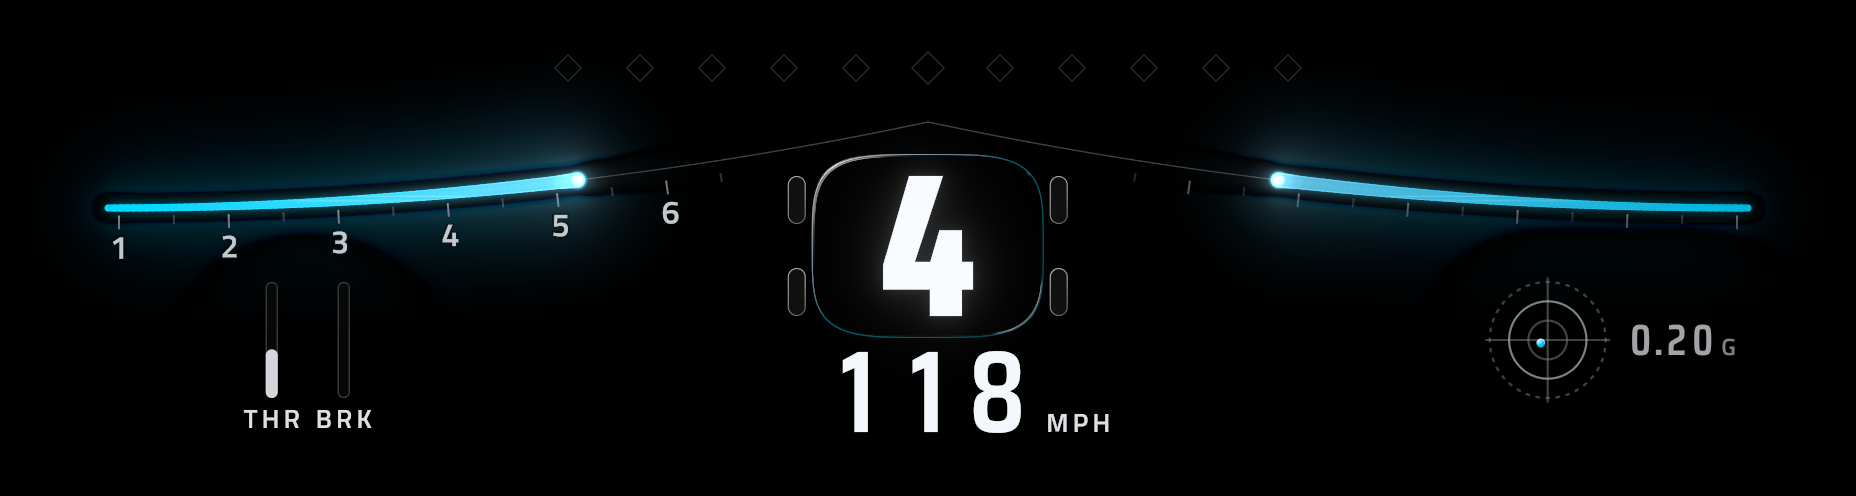
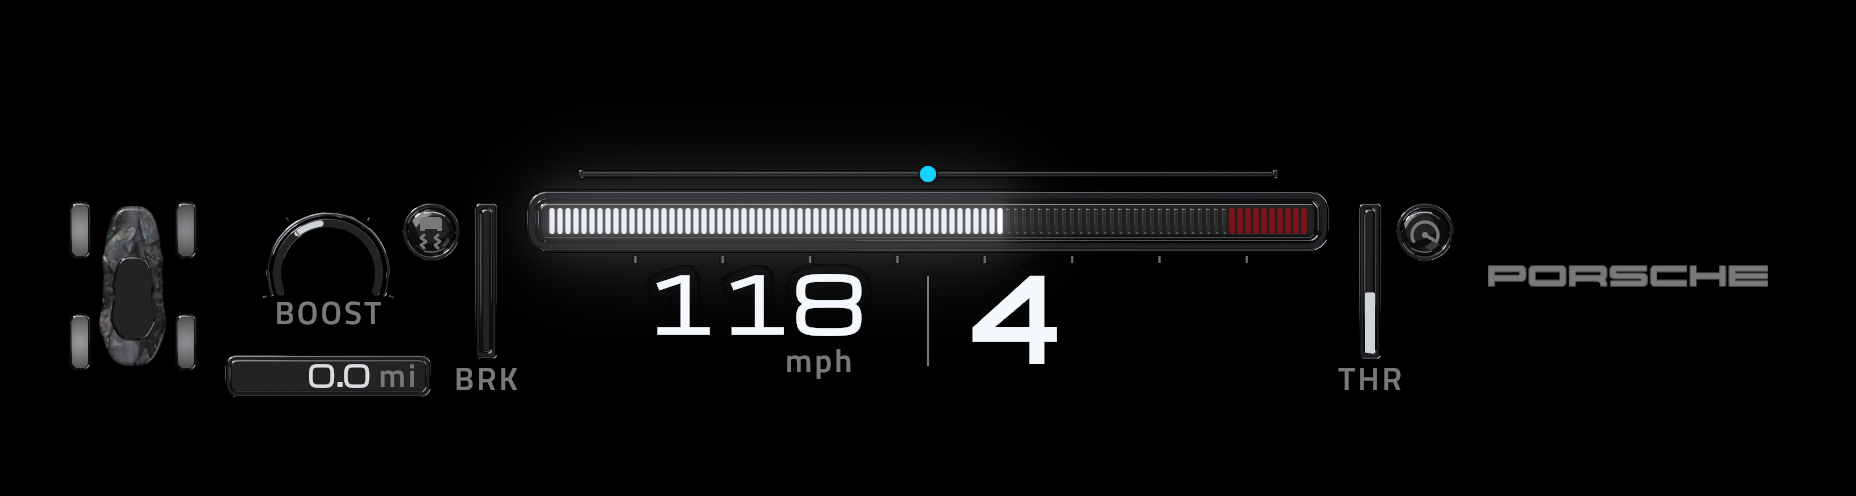
Gt7HoodPro handover: the closing spacing, V1 to V26, the closing review and the new shots

Changed region(s): [[0.0312, 0.2419, 0.9688, 0.877], [0.4688, 0.2419, 0.5312, 0.2722]]

diff --git a/crates/fh6-clusters/src/clusters/gt7_hood_pro/HANDOVER.md b/crates/fh6-clusters/src/clusters/gt7_hood_pro/HANDOVER.md
@@ -162,7 +162,7 @@ V13 stays no for this review point: GT7's bonnet band has few cues of its own, a
 
 TJX answered in the thread, on `dc_board_before_after.png`: "i like what you made". Pinned on the old gull-wing render (the before row's gear pod): "shit". Pinned on the new rev bar (the lit LED run in the black-glass bar) and on the run's head: "nrautiful" (beautiful) and "amazing". So the lit run and its bloom stay as they were; the cold reviewer's "bloom haze" finding does not outrank TJX's words, and only the alert run's bloom changed (below).
 
-TJX on the closing before-and-after sheet (06:36Z, a pin on the new redline state's lit run): "this design is clean the two befores are so bad".
+TJX on the closing before-and-after sheet (06:36Z, a pin on the new redline state's lit run): "this design is clean the two befores are so bad". Two more pins on the same sheet, on the red tile: "could be spaced better to the right not all the way", and on the speed digits: "could be spaced better to the left, not all the way". Both are done (below, "The closing spacing").
 
 ## After the direction check
 
@@ -173,8 +173,8 @@ TJX on the closing before-and-after sheet (06:36Z, a pin on the new redline stat
 | 2 meaning | BRK and THR under the slots (Titillium Web 600, cap 22, static ink); thousand-rpm marks under the plinth placed by the car's limiter; the alert zone's unlit lenses tinted red, drawn live from the driver's shift point (LED 85 at the tokens' shift point; first baked into the plate, then moved to the dash after the audit's refuter found that the OSD's shift point moves it, test `the_alert_zone_follows_the_shift_point`); a rail under the steering dot with a centre notch and end stops | `review/p2_03_redline_strobe.png` |
 | 3 moments | Alert LEDs carry a hot white core and their own bloom (threshold 0.2), so the alert run outshines the white run it replaces (test `the_alert_run_is_brighter_than_the_white_run`); the tile shows an up chevron over the next gear (cap 42); the hand-over slides the whole tile, digit kept, 90 px towards the gear while it shrinks and fades (no blank or squeezed frame, test `taking_the_suggested_gear_folds_the_tile_and_keeps_it_away`) | `review/p2_handover.png` (frames 41 to 47) |
 | 4 readouts | Speed at synthetic weight 0.3 with a soft outer keyline ring (12 copies at 1.7 widths, alpha 0.25) on the speed and gear; the unit right-aligned under the last digit; the trip as whole units, a point and tenths with its unit (`0.0 mi`), right-aligned; neutral at full ink; tyre lenses lit from inside (a radial light, screened over the lens); pedal and boost fills at 0.7 of the ink, under the lit run | `review/p2_03_centre.png`, `review/p2_02_left.png` |
-| 1 materials | Recipe: the zenith sky at 0.4 and the studio world at 0.5 of the hero rig's, and a window softbox on the key side (el 52°, half size 14°, so it never reaches the zenith); the light bar pillowed (10 px tall, 9 px round edge, a flat centre 28 px tall for the 26 px LED field); domed lenses (2 px, pill corners); half-round slots; domed telltale lamps; pillowed black-glass tyre lenses; a polished gunmetal boost arc with four engraved marks (−1, 0, 1, 2 bar); a car outline for the chip (narrower nose, mirrors, hips); deeper polished chamfers on every base. Rebuilt on the cloud lane through the PC | the PC's report (pending) |
-| 5 board | Zone table v3 boards drawn from the new numbers (`board_v3`), outlined for Penpot | Penpot page `07 · Gt7HoodPro` (pending) |
+| 1 materials | Recipe: the zenith sky at 0.4 and the studio world at 0.5 of the hero rig's, and a window softbox on the key side (el 52°, half size 14°, so it never reaches the zenith); the light bar pillowed (10 px tall, 9 px round edge, a flat centre 28 px tall for the 26 px LED field); domed lenses (2 px, pill corners); half-round slots; domed telltale lamps; pillowed black-glass tyre lenses; a polished gunmetal boost arc with four engraved marks (−1, 0, 1, 2 bar); a car outline for the chip (narrower nose, mirrors, hips); deeper polished chamfers on every base. Rebuilt on the cloud lane through the PC | the PC's report; then the second and third passes below |
+| 5 board | Zone table v3 boards drawn from the new numbers (`board_v3`), outlined for Penpot | Penpot page `07 · Gt7HoodPro`, v3 boards made at 07:05Z (ids in README.md and under "The closing spacing") |
 
 ### Code audit (workflow `gt7-hood-pro-code-audit`: four read-only auditors, each followed by one refuter; findings only)
 
@@ -211,6 +211,14 @@ The OSD's cold reviewer, through the coordinator (05:46Z), flagged "GT7 Hood Pro
 The second plate rebuild (PC, cloud lane, $0.059) brought the plate's p95 to 0.021 (was 0.044) and the static p95 to 0.190 (was 0.355), fixed the boost scale (p95 0.14), and kept the lens glints, the domes and the slots. It left two defects, both from the same physics: in a top-down orthographic render a flat polished face mirrors only the zenith, and a light on the key diagonal lights only the rounded ends of a long bar. So the bar's long top and bottom edges carried no highlight band, and the trip window came out flat mid grey (#3D3D3F) instead of dark glass. The thousand marks, at full static ink over the plate, measured 0.206 to 0.210, just over the 0.20 cap.
 
 The third pass (commit `248cc98`) adds two thin strip lights straight up and straight down the screen (`TOP_STRIP`, `BOTTOM_STRIP` in the recipe, the bottom one dimmer so the bar keeps one key light), makes the trip window black glass, and draws the thousand marks at 0.8 of the static ink (`MARK_LIGHT`).
+
+### The closing spacing
+
+TJX's two pins on the closing sheet (06:45Z) moved the centre group apart (commit `b3f3039`, on the PC). The tile's centre went from x 211 to 280 (`SUG_C`, and its frame from x 156 to 225 in the recipe), short of the THR slot at x 442, and its sprite was rebuilt on the cloud lane. The speed's right edge went from x -26 to -62 and the gear's left edge from 30 to 44, so the gap round the divider opens evenly on both sides. The tile's hand-over slide grew from 90 to 159 px (`HAND_SLIDE`), so it still ends at the gear.
+
+**The order of work:** this move went into the code first and onto the Penpot boards straight after (the v3 boards, made at 07:05Z, carry it); the post-direction-check changes of `9b0a5e4` also reached the boards only with v3. That is a no on closing line 30 that cannot be fixed afterwards (below). From here on the board comes first (TJX, 07:08Z: "never ever dont we always make in penpot first then code ?").
+
+Re-measured on lavapipe at `b3f3039` (`hood_<state>.png`, the moved zones): gear 15.0 to 16.0:1 (needs 7), speed 9.4 to 10.4:1 (needs 4.5), tile 10.6:1 in `03` (the only state that shows it), trip 4.5:1. The gear change (`review/spacing_handover.png`, frames 40 to 48): "4" from frame 42, the tile slides left, shrinks and fades and is gone by frame 48, with no blank or doubled gear. Renders `review/spacing_02.png`, `review/spacing_03.png`.
 
 ## Shared places touched
 - The user-facing name only: `crates/fh6-clusters/src/registry.rs` and `crates/fh6-clusters/src/catalog.rs` ("Bonnet Line"), `crates/fh6-osd/src/model.rs` (the theme's display name), `docs/TELEMETRY_USAGE_MATRIX.md`. One line each.
@@ -299,3 +307,143 @@ No unwrap, expect or panic outside tests, no per-frame allocation, and no unguar
 | 4 | `Geom::slot_rect(i, inner: bool)` was a bool parameter used across files | fixed | split into `slot_rect` and `slot_outer_rect`, like `sug_outer_rect` |
 | 5 | `animating()` ignores the virtual light's spring, so the plate's cross-fade can settle on a frame the loop skips | not fixed | `common::VirtualLight` has no settled accessor and is shared code; logged under requests. While racing a packet arrives every frame |
 | 6 | `light_weights`' doc said the rest render is drawn at 1; `blend` draws it at 1 minus the swing | fixed | doc corrected |
+
+### V1 to V26 (closing round)
+
+Renders on lavapipe in the cloud container at `b3f3039` (identical to `dae1263` apart from the goldens), images under `mockups/Gt7HoodPro/review/`.
+
+| # | Answer | Evidence |
+|---|---|---|
+| V1 | yes | the closing round's expectations were frozen at 06:35Z, before this round's full frames, state sheet or sequence were opened (above) |
+| V2 | yes | the cold look of 06:38Z, then each of TJX's five rejection patterns checked against a named crop (above) |
+| V3 | yes | one `cold-reviewer` run at 06:41Z on `mockups/blind/47/`; its 11 findings are each recorded with what was done (above) |
+| V4 | yes | first "the white lit part of the segmented bar" (the shift light's run), second "118" and the gear "4" |
+| V5 | no, cannot be fixed afterwards | gear right 8 of 8, speed within 1 on 8 of 8, shift lights as each frame shows them, the rpm zone right on 7 of 8: on glance_02 (98%, the limiter zone by the key) it answered "high or limiter; don't know which". The sliver of unlit LEDs at 98% is true data, so nothing in the dash was changed for it |
+| V6 | yes | `glance` on `hood_<state>.png`: gear 15.0 to 16.0:1 (needs 7), speed 9.4 to 10.4:1, the lit rev bar 5.0 to 8.5:1, the tile 10.6:1, the trip 4.5:1. The unit (2.3 to 2.5:1) and the BOOST label (2.0:1) are static labels held under the static cap, as at the direction check (the open rule question the pilot and PorscheAnalog reported) |
+| V7 | yes | `review/final_squint_sheet.png`: idle, the white run, the alert run with the tile, and the strobe's off (frame 30) and on (frame 33) phases each differ plainly |
+| V8 | yes | `geom.rs` `HOOD`: speed cap 58 px, trip 22, unit 22, tile digit 42; the gear 88 px (needs 36 in the hood view); the thinnest live stroke, the rail, 6 px; confirmed on `review/spacing_03.png` at 1:1 |
+| V9 | yes | `flash --frames 30-41`: one flashing area, the LED run (4K 1541,1700 758x26); no digit is marked |
+| V10 | yes | the squint sheet: labels, logo and the side groups fade first, then the speed, and the gear, run and tile last, in all four states |
+| V11 | yes | `static` (PC, third pass): p95 0.191 under the 0.20 cap; the thousand marks p95 0.165. Over the cap: 27 px at the plinth's top-left corner (p95 0.27), the brightest point of the new long-edge highlight, a specular glint rather than an area; the steering dot and the digit strokes the four states share are live parts |
+| V12 | yes | red only on the limiter lamp and the alert zone (the redline marker, 0.22 of the warning colour); the product page's red badge 1% outside the redline state and 5% in it, within budget; `review/hood_03_redline_strobe_cvd_sheet.png`: the shift state reads by count and by the tile in every panel |
+| V13 | no, cannot be fixed afterwards | unprompted, logo masked: "Don't know." GT7's bonnet band has few cues of its own, and the dash gives up two on purpose (RESEARCH.md, "Deliberate changes"); the layout against R1 was "Same" in both orders |
+| V14 | yes | the direction check's measured inventory (above), plus the closing changes measured on the render: 8 thousand marks for the 8700 rpm limiter, the tile at x 280, the speed's right edge at -62, the trip "0.0 mi" (`review/spacing_03.png`, `closing_measure.txt`) |
+| V15 | yes | blurred to the same level, reference and render show the same masses (`review/dc_real_vs_render.png`); the cold reviewer called the layout the same as R1 in both orders |
+| V16 | yes, with one refresh to come | the v3 board PNGs (`mockups/Gt7HoodPro/board/v3_<state>.png`) against the renders: every zone in place and at size, except the tile and the speed, which the v3 boards carry at their new places but whose PNG export predates the move; the re-export is queued for the next Penpot slot. The render is plainly richer than the board and the before render (`review/final_before_after.png`) |
+| V17 | yes | at full frame the capsule bar reads as black glass, the plinth as black chrome, the domes and slots as glass, the chip as textured carbon, the tile as enamel, each lit from the one key (upper left) |
+| V18 | yes | the materials checks for black glass, chrome, enamel and carbon: lit long edges (glass top 0.22, plinth top 0.11), the trip window dark glass (0.017), dome glints, no texture on vector shapes (`review/p3_left.png`, `review/p3_right.png`) |
+| V19 | NOT ASSESSED | the dash has no clear glass; its glass is opaque black hardware |
+| V20 | yes | `stretch` on all four states: 0 px outside the envelope plus 40 px; the corners off; the bloom the only glow round the run |
+| V21 | yes | `motion`: no stall in either pull; the gear changes on frame 42 with the data; the run follows the rpm on the same frame |
+| V22 | yes | `flash`: 10.0 Hz, 3 on / 3 off in all 18135 px of the strip, the worst 10-degree field 7950 of 21526 px2, the strip 26 px tall (limit 42), no red flash |
+| V23 | yes | `review/spacing_handover.png` (frames 40 to 48): "4" from frame 42, never blank or doubled; the tile's slide and fade end within 6 frames |
+| V24 | yes | the `motion` spikes at frames 1 (the start-up), 10 (the pull begins), 25 (the alert run) and 27 (the strobe starts lit) are each the data's; idle frames 6 to 9 are still |
+| V25 | yes | `review/final_before_after.png`: the before's named failure (gull-wing ribbons that look nothing like GT7's meter) is gone; nothing the before did better is lost (checked on the sheet's crop pairs; TJX on the sheet: "the two befores are so bad") |
+| V26 | yes | the four goldens were rewritten on lavapipe at `b3f3039`, opened and compared with the previous ones (`review/final_goldens.png`): every difference is the rebuild (the old goldens showed the gull-wing design); they passed twice without the update variable (commit `dae1263`) |
+
+### What the review set could not show (fh6-visual-review section 8)
+- The steering dot off centre: the review telemetry holds `steer` at 0 (tested in code; request 3 above).
+- Flash rates from 3 to 6 Hz and the WCAG three-flashes-in-one-second count: the limiter hold is 12 frames.
+- The reduced-flash mode: judged from the code (`RevBar::level`, `Strobe::breath`).
+- The trip counting: the view starts fresh and the sequence is one second (tested in code).
+
+## Before and after pair
+
+- Before: `docs/handover-shots/cluster-gt7_hood_pro-before_02_mid_cruise.png` (the 2026-11-23 gull-wing build, full frame, kept before the work started).
+- After: `docs/handover-shots/cluster-gt7_hood_pro-after_02_mid_cruise.png` (full frame, `b3f3039`).
+- The four states at 1:1: `docs/handover-shots/cluster-gt7_hood_pro-0{1..4}_*.png`. The old build's shots of its parts were removed with it.
+
+## Assets and masters
+
+The runtime files, recipe, seeds, licences and master names are in [ASSETS.md](../../../../../assets/clusters/gt7_hood_pro/ASSETS.md):
+- **ComfyUI:** the forged-carbon texture (seed 73101, 4096 px seamless), rendered into the plate's car chip; master `gt7_hood_pro_forged_carbon.png`.
+- **Blender:** `plate_0.png` to `plate_2.png` (the band's hardware) and `suggest_0.png` to `suggest_2.png` (the tile), each at the light's rest azimuth and its ±25° swing, rendered at 2 px per 4K px; masters `plate/beauty_0..2.png` and `suggest/beauty_0..2.png` in the Drive folder `FH6 WheelDash v2 - 4K Masters/gt7_hood_pro/`.
+- **Cloud:** every ComfyUI and Blender job ran on the cloud pod through `asset-forge --lane cloud`, driven from the PC, with `cloud down` after each batch.
+
+## Changes from the real display and from the brief
+
+[RESEARCH.md](RESEARCH.md), "Deliberate changes and why", lists each one with its reason. In short: the suggested gear is an upshift prompt from the shift point (FH6 sends no driving line); the steering dot takes the primary colour, not red; one telltale each side (slide and limiter), because FH6 sends no assists; no tyre heat or wear, fuel, compound or braking suggestion, because the verified telemetry carries none; a narrower band for the 1760 px hood envelope; the car's logo at the right end; and a 2027 production finish (a lit Blender plate and an enamel tile) over GT7's flat graphics. Against the brief: the redline board shows the alert LEDs with white hot cores in the dash's shift colour, because that is what the dash draws; the brief's "alert cores light red" is not followed.
+
+## Verification (cloud container, `dae1263` plus this handover; Rust 1.97, the dash's crates per `-p`)
+
+```
+cargo check -q -p fh6-clusters -p asset-forge                      exit 0
+cargo test -q -p fh6-clusters --lib gt7_hood_pro                    test result: ok. 25 passed; 0 failed
+cargo test -q -p fh6-clusters --lib gt7_hood_pro (again)            test result: ok. 25 passed; 0 failed
+cargo test -q -p asset-forge gt7_hood_pro                           test result: ok. 6 passed; 0 failed
+cargo test -q -p fh6-clusters --test dash_gates                     test result: ok. 10 passed; 0 failed; finished in 52.44s
+cargo clippy -q -p fh6-clusters -p asset-forge --all-targets        no finding in gt7_hood_pro files
+rustfmt --edition 2021 --check (module and recipe)                 exit 0
+FH6_UPDATE_GOLDEN=1 cargo test -p fh6-clusters --test golden_images gt7_hood_pro, then twice without it (lavapipe)   ok, ok
+```
+On the PC at `b3f3039` (rustc 1.100): lib tests, asset-forge tests, dash gates, `cargo clippy -p fh6-clusters -p asset-forge --all-targets -- -D warnings` and fmt pass.
+
+## Performance
+
+**GPU** (`preview-export`, layout `b3f3039`, RTX 3070 Ti through `gpu-lock`, hood view at 3840x2160; the catalog lists the hood view only): 01 idle 0.190 ms, 02 mid cruise 0.249 ms, 03 redline strobe 0.257 ms, 04 drift braking 0.246 ms; the 60-frame sequence p50 0.247 ms, p99 0.251 ms. Budget 0.5 ms.
+
+**Live bench** (60 s, `mock-udp --scenario bmw_m4_cs` at 60 Hz):
+
+BENCH_RESULTS
+
+## Closing review
+
+| # | Answer | Evidence |
+|---|---|---|
+| 1 | yes | the module reads no pad input (`git grep -n "0x1000\|0x2000\|0x4000\|0x8000\|buttons" crates/fh6-clusters/src/clusters/gt7_hood_pro` finds nothing) |
+| 2 | yes | no stub or stand-in; every field is covered by the golden packets or derived from covered ones ("Telemetry" above) |
+| 3 | yes | none outside tests (rust-review, closing round); no `unsafe` |
+| 4 | yes | the search finds `format!` and `tracing::warn!` only in `hardware.rs` `Sprites::load` (called from `new`), `Box::new` only in `make`, and `vec!`, `format!` and `collect` only in `geom.rs` tests; `warm_frames_do_not_allocate` passes in `dash_gates` |
+| 5 | yes | 0.190 to 0.257 ms per state, sequence p99 0.251 ms ("Performance") |
+| 6 | BENCH_LINE6 | "Performance" |
+| 7 | yes | rpm, speed and gear go through the kit's `HeroGear` and `TabularSpeed` and the token springs only; the rev run follows rpm on the same frame. One hold: `backlash` keeps the head LED still while the engine bounces on the limiter (the run is full either way), which delays nothing outside that bounce |
+| 8 | yes | the dash has no path of its own that draws; showing and hiding stay the app's |
+| 9 | yes | no non-Rust source added; bpy lives as Rust strings in the recipe |
+| 10 | yes | `git log origin/main..HEAD`: 24 commits, all by TJX, no co-author trailer; no real name, user path, personal email, legacy build or old design-tool name in the module, recipe or RESEARCH.md links |
+| 11 | yes | nothing copied to the game folder or the mirror |
+| 12 | yes | no new dependency (`Cargo.toml` and `Cargo.lock` unchanged against main) |
+| 13 | yes | "Verification" |
+| 14 | yes | the kit's premultiplied paths only; the sprites go through the kit's image loader, which premultiplies once; transparent is `(0,0,0,0)` |
+| 15 | yes | in the hood view (the one the catalog lists) the band draws unscaled, and every size in `HOOD` is at least 1 px (the thinnest live stroke 6 px; the tick and LED widths are drift-tested against the recipe); G5 in `dash_gates` passes with no repairs; every division by `max_rpm`, `shift_rpm` or the band's size is guarded (`max(1.0)`, `MIN_LIMITER_RPM`) |
+| 16 | yes | each sprite lookup has a procedural branch (`hardware.rs`), loaded once in `new`; `dash_gates` runs without assets |
+| 17 | yes | MSDF text from the kit; `TabularSpeed` for the speed and tabular figures for the trip; a user display font replaces the numerals (`mod.rs`, the font choice in `new` and per frame) |
+| 18 | yes | true black between every part, no box, no full-canvas fill (`stretch`: 0 px outside the envelope) |
+| 19 | yes | no clock read; state in `&mut self`; the tests passed twice and the goldens twice without rewriting |
+| 20 | yes | colours from palette roles and tokens; the plate's colours are baked by Blender (recorded in ASSETS.md) |
+| 21 | yes | the dash draws no glass, reflective or spectral effect in code; the plate's reflections are Cycles renders |
+| 22 | yes | V10 and the squint sheet, all four states |
+| 23 | yes | V6 on the 4K hood renders |
+| 24 | yes | drawn round (1920, 1760) inside the hood envelope; `stretch` 0 px outside; the hood view is the one the catalog lists |
+| 25 | yes | RESEARCH.md: 17 points with sources, each matched or listed as a deliberate change |
+| 26 | yes | separate pieces on black, each its own zone in `HOOD`; no backing panel (GT7's band has none) |
+| 27 | yes | V17: the bar, plinth, domes, slots, carbon chip and enamel tile read as rendered objects at full frame; the ComfyUI carbon and the Blender plate and tile are visible surfaces |
+| 28 | yes | V22 (the strobe) and V23 (the gear change) in `mockups/Gt7HoodPro/sequence/` |
+| 29 | yes | palette roles, the user's font and the logo zone come from the frame input; no literal colour, font or brand name in `draw()` |
+| 30 | no, cannot be fixed afterwards | RESEARCH.md, then the Penpot page, then ComfyUI, then Blender held for the build and each materials pass; but the post-direction-check changes (`9b0a5e4`) and TJX's spacing pins (`b3f3039`) went into the code before the boards, which caught up with the v3 boards at 07:05Z ("The closing spacing"). Reported in the thread and to the coordinator |
+| 31 | yes | the page `07 · Gt7HoodPro` holds the four hood states (v3); ids in README.md and here |
+| 32 | yes | the ComfyUI carbon and the Blender plate and tile, each with an ASSETS.md row |
+| 33 | yes | rendered at 2 px per 4K px and box-filtered; runtime PNGs in git, masters in the Drive folder ("Assets and masters") |
+| 34 | yes | every PC GPU job held `gpu.lock` (by lock file before 07:05Z, through `gpu-lock.exe` after); ComfyUI and Blender ran on the cloud pod with `cloud down` after each batch; the cloud goldens ran on lavapipe in the container, off both lanes. Spend in "Cloud spend" |
+| 35 | yes | the direction check was posted with the first build's render; its self-review and TJX's words are above, and each change TJX asked for is done |
+| 36 | yes | `mockups/Gt7HoodPro/index.html` from `preview-export` (the PC's copy carries the card's GPU times; the cloud copy shows the software renderer's) |
+| 37 | BENCH_LINE37 | "Performance"; the sequence holds its digits (V9) and settles without a jump (V21, V24) |
+| 38 | yes | findings and yes/no answers only |
+| 39 | yes | V1 to V26 above, with V5 and V13 the reviewer's one-run noes that cannot be fixed afterwards, and V19 NOT ASSESSED (no clear glass) |
+
+## Cloud spend
+
+CLOUD_SPEND
+
+## Exit criteria
+- [x] The introduction was posted, and the thread is not archived.
+- [x] `RESEARCH.md` is written, with sources.
+- [x] The Penpot page `07 · Gt7HoodPro` has the four hood states (v3); its page and board ids are in README.md and here.
+- [x] A bespoke ComfyUI asset (forged carbon) and bespoke Blender assets (plate, tile) are in `assets/clusters/gt7_hood_pro/`, used, each with an ASSETS.md row; the before and after pair is above; the 4K masters are in the Drive folder.
+- [x] The module is complete, with no TODOs, and the goldens pass.
+- [x] 4K renders, the 60-frame sequence and the product page are in `mockups/Gt7HoodPro/`.
+- [ ] The live bench report is in this handover; the GPU time under 0.5 ms is recorded.
+- [x] The direction check was posted and self-reviewed to a go, with TJX's words quoted.
+- [x] Every closing line is yes, or reported as one that could not be fixed afterwards (30; V5 and V13).
+- [x] V1 to V26 are answered above.
+- [ ] Reported to the coordinator for the merge; the product page and the completed checklist posted in the thread.
+- [x] Draft pull request #10 has been open since the branch's first push.

diff --git a/crates/fh6-clusters/src/clusters/gt7_hood_pro/README.md b/crates/fh6-clusters/src/clusters/gt7_hood_pro/README.md
@@ -26,7 +26,7 @@ Shared components it composes (`crate::common`): `HeroGear`, `TabularSpeed`, `Vi
 - `tests/golden/images/Gt7HoodPro_hood_*.png`
 - `assets/clusters/gt7_hood_pro/` and its ledger `ASSETS.md`: `plate_0.png` to `plate_2.png` and `suggest_0.png` to `suggest_2.png` (Blender, at the light's rest azimuth and its ±25° swing). The forged-carbon texture (ComfyUI) is rendered into the plate and has no runtime file. Without the files the cluster draws its procedural hardware.
 - `tools/asset-forge/src/recipes/gt7_hood_pro.rs` (builds all of them; the 4K masters go to the Drive folder `gt7_hood_pro\`)
-- Penpot page `07 · Gt7HoodPro` (`6fe75c5e-bb22-8084-8008-fd908bb325c8`): boards "Gt7HoodPro · <state> · zone table v2", hood 01 to 04, ids `347e5ae2-9e0b-80b1-8009-` + `035cbfdb5a2b`, `035cbfe8cb09`, `035cbff27163`, `035cbffb0be4`; the motion and material notes `347e5ae2-9e0b-80b1-8009-03626a7db219`; the old design's five boards are kept as "superseded · …". (The ids live here and in HANDOVER.md, not in CATALOG.md.)
+- Penpot page `07 · Gt7HoodPro` (`6fe75c5e-bb22-8084-8008-fd908bb325c8`): the v3 boards "Gt7HoodPro · <state>", hood 01 to 04, ids `347e5ae2-9e0b-80b1-8009-` + `03764221bdf2`, `03764325442f`, `0376442ccff0`, `0376456775b0` (the rail, thousand marks, live alert zone, tile chevron, BRK and THR, the speed unit, the trip and the closing spacing); the motion and material notes `347e5ae2-9e0b-80b1-8009-03626a7db219`; the v2 zone-table boards and the old design's five boards are kept as "superseded · …". (The ids live here and in HANDOVER.md, not in CATALOG.md.)
 
 ## Commands
 ```
